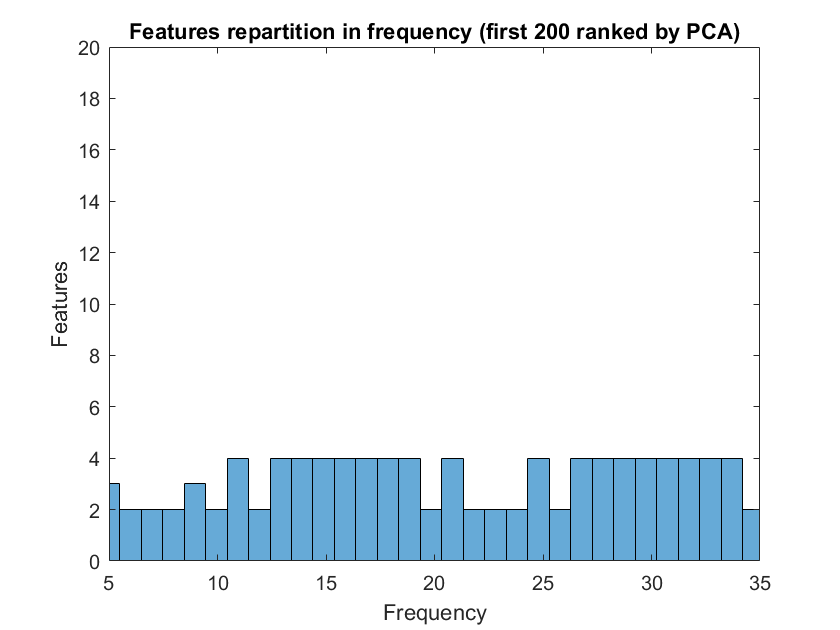
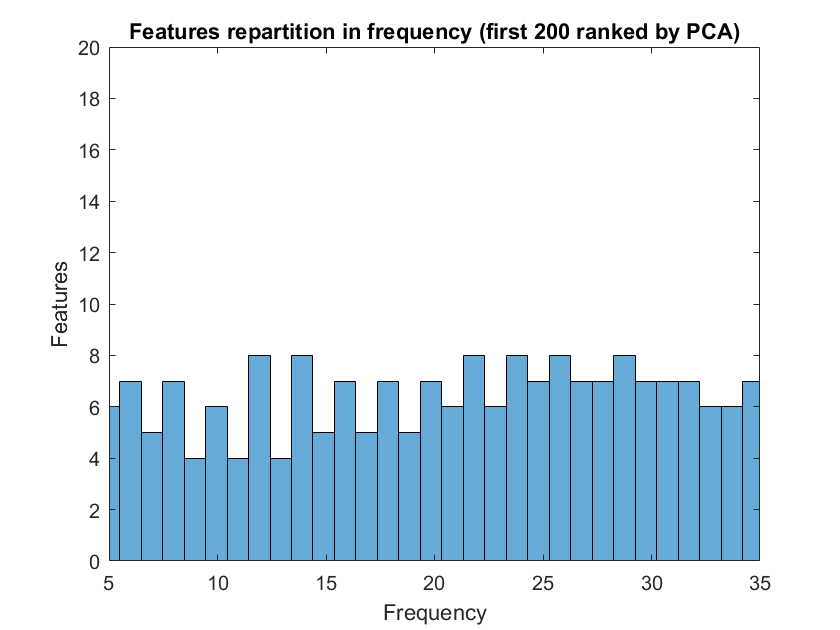
updated plot

Changed region(s): [[0.1238, 0.5429, 0.9286, 0.8143]]

diff --git a/Scripts/scatter_plot_features.m b/Scripts/scatter_plot_features.m
@@ -85,7 +85,7 @@ disp('ReliefF 20 first features');
 disp(orderedReliefF(1:20)');
 
 disp('PCA 20 first features');
-disp(pca_indices(1:20));
+disp(indices_PCA(1:20));
 
 
 %% Plotting distribution of electrodes for the first 200 features
@@ -108,7 +108,7 @@ ylabel('Features');
 title('Features repartition in electrodes (first 200 ranked by ReliefF)');
 
 figure;
-features_PCA = pca_indices(1:N);
+features_PCA = indices_PCA(1:N);
 len = length(features_PCA);
 electrodes_PCA_200 = electrodes_containing_features(features_PCA);
 histogram(electrodes_PCA_200,64);
@@ -118,7 +118,7 @@ ylabel('Features');
 title('Features repartition in electrodes (first 200 ranked by PCA)');
 
 %% Plotting distribution of frequencies for the first 200 features
-N = 100;
+N = 200;
 
 figure;
 frequency_Fisher_200 = frequency_of_features(orderedFisher(1:N));
@@ -139,7 +139,7 @@ title('Features repartition in frequency (first 200 ranked by ReliefF)');
 savefig('Graphs/Frequencies_ReliefF_200.fig');
 
 figure;
-features_PCA = pca_indices(1:N);
+features_PCA = indices_PCA(1:N);
 len = length(features_PCA);
 frequency_PCA_200 = frequency_of_features(features_PCA);
 histogram(frequency_PCA_200,31);
